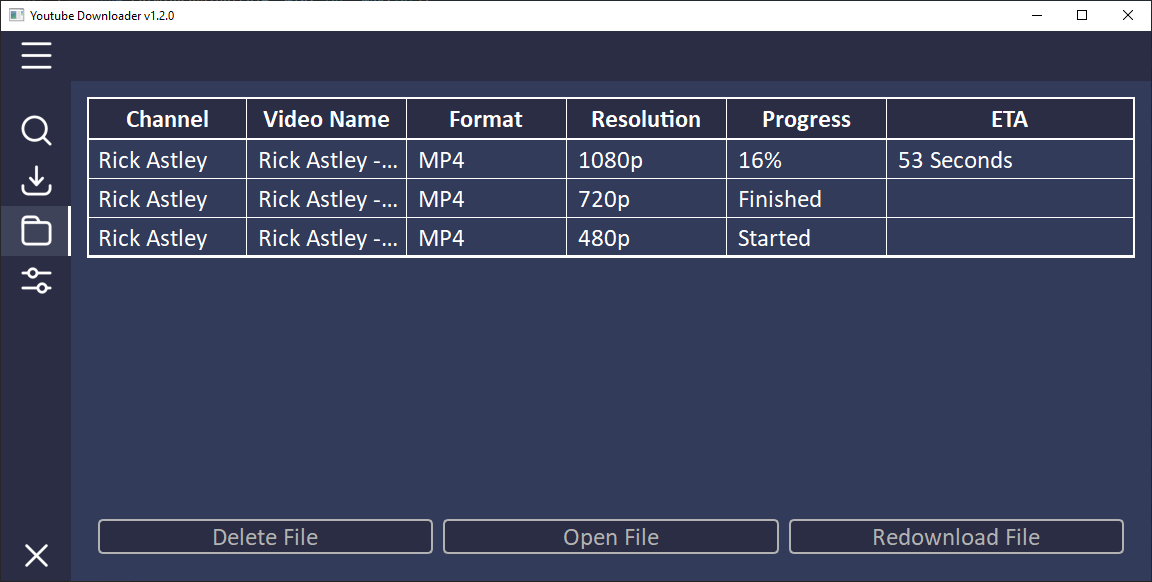
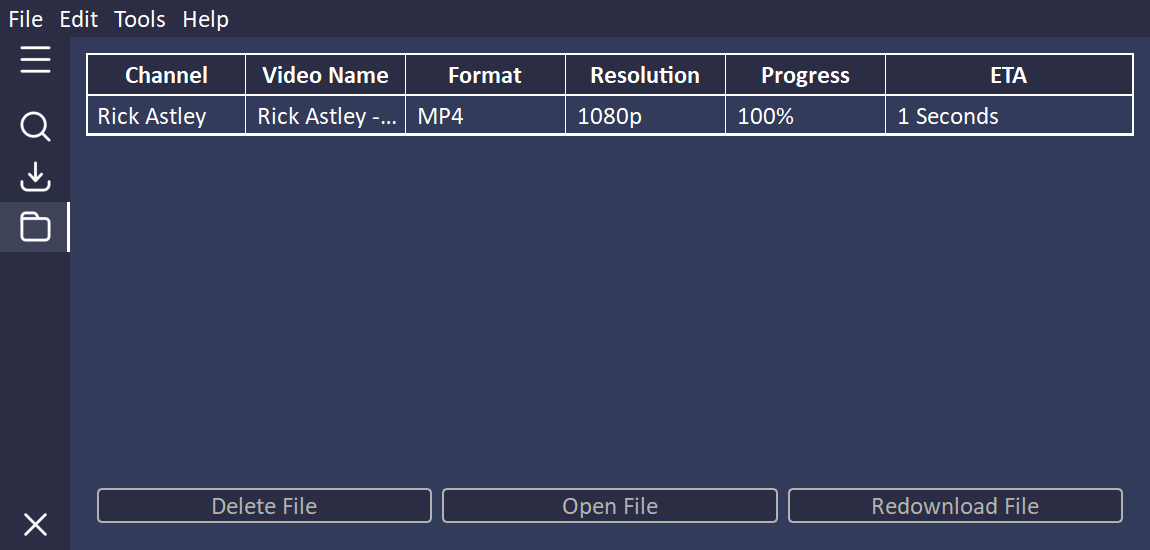
Screenshot Method

diff --git a/main.py b/main.py
@@ -1177,29 +1177,51 @@ class ScreenShot(QThread):
     def __init__(self, parent=None):
         super().__init__(parent=parent)
     def run(self):
+        if not os.path.isdir("imgs"):
+            os.mkdir("imgs")
+        if os.path.isfile(f"{dl.file}Rick Astley - Never Gonna Give You Up (Official Music Video)(1080p).mp4"):
+            os.remove(f"{dl.file}Rick Astley - Never Gonna Give You Up (Official Music Video)(1080p).mp4")
         screenshot = mw.grab()
-        screenshot.save('screenshot.png', 'png')
+        screenshot.save('showcase/Startpage.png', 'png')
 
 
         mw.ui.url_entry.setText("https://www.youtube.com/watch?v=dQw4w9WgXcQ")
-        #self.msleep(3000)
+        self.msleep(3000)
         mw.ui.searching_button.click()
 
-        #self.msleep(5000)
+        self.msleep(5000)
 
         screenshot = mw.grab()
-        screenshot.save('screenshot2.png', 'png')
+        screenshot.save('showcase/Download_Video.png', 'png')
 
         mw.ui.download_button.click()
 
-        #self.msleep(6000)
+        self.msleep(6000)
 
         mw.ui.file_btn.click()
 
-        #self.msleep(1000)
+        self.msleep(1000)
 
         screenshot = mw.grab()
-        screenshot.save('screenshot3.png', 'png')
+        screenshot.save('showcase/Download_Overview.png', 'png')
+
+        mw.ui.url_entry.setText("Rick Astley")
+        mw.ui.searching_button.click()
+        mw.ui.search_btn.click()
+        self.msleep(5000)
+        screenshot = mw.grab()
+        screenshot.save("showcase/Search.png", "png")
+
+        mw.ui.url_entry.setText("https://www.youtube.com/playlist?list=PL7oy-W4T92tJuncyNL2xk8F4PGzz0jvtb")
+        mw.ui.searching_button.click()
+        self.msleep(5000)
+        screenshot = mw.grab()
+        screenshot.save("showcase/Select_Playlist_Range.png", "png")
+
+        mw.ui.next_page_btn.click()
+
+        screenshot = mw.grab()
+        screenshot.save("showcase/Download_Playlist.png", "png")
 
 
 
@@ -1208,6 +1230,6 @@ if __name__ == "__main__":
     app = QApplication([])
     mw = MainWindow()
     dl = Downloader()
-    thread = ScreenShot(mw)
-    thread.start()
+    # thread = ScreenShot(mw)
+    # thread.start()
     sys.exit(app.exec())
